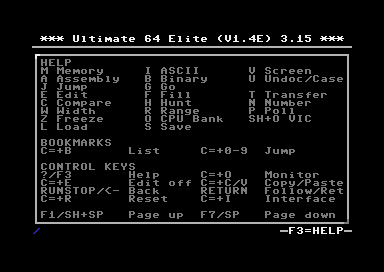
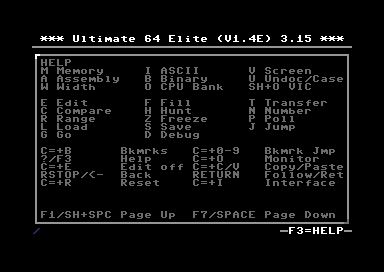
Document the machine code monitor debugger
Add a Debugger section with screenshots taken from an Ultimate 64, and refresh the help screenshot for the new help layout.

diff --git a/howto/machine_code_monitor.rst b/howto/machine_code_monitor.rst
@@ -3,7 +3,7 @@ Machine Code Monitor
 
 The Machine Code Monitor is a keyboard-driven tool for inspecting and editing live or frozen C64 memory.
 
-It supports hexadecimal, ASCII, screen-code, binary, and assembly views, plus inline editing, bulk memory operations, file load/save, and execution from a selected address.
+It supports hexadecimal, ASCII, screen-code, binary, and assembly views, plus inline editing, bulk memory operations, file load/save, execution from a selected address, and a debugger that steps the C64's own 6510 and stops it at breakpoints.
 
 Almost every command is a single keypress, and the monitor stays open until you exit it, so you can move freely between views and operations. If you forget a key, press ``F3`` for the on-screen help.
 
@@ -19,7 +19,9 @@ To open the monitor, use one of the following:
 -  Press ``C=+O``.
 -  Press ``F5``, open ``Developer``, then select ``Machine Code Monitor``.
 
-Open the built-in help with ``F3`` or ``?``. It lists every key binding:
+Open the built-in help with ``F3`` or ``?``. It lists every key binding, in three blocks: the views and what
+modifies them, the commands that act on memory, and the keys that need ``C=`` or a named key. ``F1``/``SH+SPACE``
+and ``F7``/``SPACE`` page it.
 
 .. image:: ../media/monitor/help_view.png
    :alt: Monitor built-in help screen listing key bindings
@@ -512,6 +514,216 @@ Matches are listed in a result picker:
 
 A command prompt accepts only characters that can occur in the command being entered; other keys are ignored. Parsing
 and validation still happen on ``Return``.
+
+Debugger
+--------
+
+Debug mode is layered on Assembly view. It stops the C64's own 6510, shows its registers, steps it one instruction at
+a time, and stops it again at breakpoints. The rest of the monitor keeps working while Debug is active, so memory can
+still be viewed and edited between steps.
+
+The machine has no hardware breakpoints. The debugger writes a temporary ``BRK`` at the addresses that may execute
+next, lets the CPU run, and puts the original bytes back when it stops. Everything it patched is restored when the
+session ends, including after a timeout or a reset.
+
+Entering and Leaving
+~~~~~~~~~~~~~~~~~~~~
+
+Press ``D`` outside Debug. The monitor switches to Assembly view and shows ``Dbg`` in the header.
+
+Entering Debug executes nothing and does not stop the C64. No CPU state is captured yet, so the footer is blank and
+the first execution command starts at the Assembly cursor address rather than where the C64 is currently executing.
+To attach to running code, set a breakpoint and press ``G``.
+
+============================= ==================================================================
+Key                           Effect
+============================= ==================================================================
+``C=+D``                      Leave Debug, stay in the monitor
+``RUN/STOP`` or ``ESC``       Leave Debug, stay in the monitor
+``X`` or ``C=+O``             Leave Debug and close the monitor
+``C=+R``                      Reset the machine; Debug is re-entered with no captured state
+============================= ==================================================================
+
+Debug works in UI Freeze, UI Overlay, and Telnet mode. Only one session can be active at a time across all of them.
+Where another one already owns the debugger, ``D`` reports ``DEBUG IN USE``; an owner that has not been seen for
+three seconds is taken over.
+
+Reading the CPU State
+~~~~~~~~~~~~~~~~~~~~~
+
+Debug reserves the two rows above the normal footer for the CPU state:
+
+.. image:: ../media/monitor/debug_paused.png
+   :alt: Assembly view in Debug mode, stopped on a JSR, with the CPU state footer
+
+============ =========================================================
+Field        Meaning
+============ =========================================================
+``PC``       Program counter
+``AC``       Accumulator
+``XR``       X register
+``YR``       Y register
+``SP``       Stack pointer
+``NV-BDIZC`` Status register, one digit per flag
+``IRQ``      RAM IRQ vector at ``$0314/$0315``
+``NMI``      RAM NMI vector at ``$0318/$0319``
+============ =========================================================
+
+The instruction that runs next is bracketed in the body, for example ``>JSR $C020<``, so the cursor can move
+elsewhere without losing it. A ``JSR``, an absolute ``JMP``, and a branch that will be taken show their target in the
+accent colour; an ``RTS`` row shows the return address read from the live stack. A value the debugger does not know
+is left blank rather than shown as zero, and the columns keep their positions.
+
+After each step the cursor follows the new program counter and the view is scrolled so it stays visible.
+
+Execution Commands
+~~~~~~~~~~~~~~~~~~
+
+============= =============== ================================================================================
+Key           Command         Behaviour
+============= =============== ================================================================================
+``D``         Step Over       Executes one instruction. A ``JSR`` runs to completion and stops at the return site
+``T``         Step Into       Executes one instruction. A ``JSR`` stops on the first instruction of the callee
+``U``         Step Out        Runs to the caller of the subroutine the CPU is in
+``G``         Go              Resumes the program and stops at the first enabled breakpoint hit
+``K``         Run to cursor   Runs until the Assembly cursor address is reached
+``Return``    Follow/Return   Follows a jump target, or returns from one, without executing anything
+============= =============== ================================================================================
+
+Inside Debug, ``U`` is Step Out rather than the undocumented-opcode toggle, and ``P`` is a breakpoint rather than
+Poll. Every key Debug does not own keeps working, so views, bookmarks, and editing stay available.
+
+``G`` with no enabled breakpoint hands the CPU back to full-speed execution. The on-screen monitor closes as it does
+so; a Telnet session stays open on the running machine.
+
+``G`` pressed while stopped on a breakpoint steps past that breakpoint first, so the same one does not fire again
+immediately.
+
+A run that reaches no breakpoint gives up after five seconds and reports ``DEBUG TIMEOUT``. While a run is in
+progress, ``RUN/STOP``, ``ESC``, ``C=+D``, or ``C=+O`` abandons it with ``DEBUG CANCELLED``.
+
+Step Out works after a Step Into and also after arriving inside a subroutine with ``G`` or ``K``. Where no active
+call frame can be established it reports ``NOT IN SUBROUTINE``; set a breakpoint at the ``RTS`` target shown on the
+row and use ``G`` instead.
+
+Breakpoints
+~~~~~~~~~~~
+
+There are 10 breakpoint slots, numbered ``0`` to ``9``.
+
+-  ``P`` toggles a breakpoint at the Assembly cursor address, in the memory source selected with ``O``. With all ten
+   slots in use it reports ``NO FREE BRK SLOT``.
+-  A breakpoint is an address plus a memory source, so ``$E000 KRN`` and ``$E000 RAM`` are separate breakpoints.
+-  A row with a breakpoint shows ``[BRK0]``..\ ``[BRK9]`` before its source tag, for example ``[BRK0][BAS]``. A slot
+   with a label shows the label instead, for example ``[LOOP][BAS]``.
+-  Only enabled breakpoints stop execution. A disabled slot is remembered but inert.
+-  Slots are held in volatile RAM. They survive ``C=+R``, leaving Debug, and closing the monitor. Powering the device
+   off clears them.
+
+``C=+P`` opens the breakpoint list:
+
+.. image:: ../media/monitor/debug_breakpoints.png
+   :alt: Monitor breakpoint list with two slots set
+
+===================== ==================================================
+Key                   Action
+===================== ==================================================
+``Up``/``Down``       Select a slot
+``Return``            Jump to the selected slot
+``0``..\ ``9``        Jump directly to that slot
+``S``                 Store the current address into the selected slot
+``L``                 Change the label, up to 4 characters
+``E``                 Enable or disable the slot
+``DEL``               Clear the slot
+``RUN/STOP``          Close the popup
+===================== ==================================================
+
+Jumping to a slot also restores the CPU view bank the breakpoint was set in.
+
+Two address ranges cannot hold a breakpoint or a step landing site, and using them is refused with ``PATCH FAILED``:
+``$0314``-``$0319`` holds the vectors the debugger redirects, and ``$035D``-``$03FB`` holds its handler and register
+store. Data kept from ``$0340`` upwards does not survive a debugging session.
+
+A breakpoint can be valid but invisible to the running program. Setting one in a source the live banking does not map
+reports ``BRK <target>, CPU <current>; not mapped now``: the breakpoint only fires once the program banks
+``<target>`` in.
+
+Where the Debugger Can Stop
+~~~~~~~~~~~~~~~~~~~~~~~~~~~
+
+Every step lands on the architecturally correct next instruction, with the registers, flags, stack pointer, and
+memory effects an undebugged run would have produced. What is available depends on where the program counter is, and
+on whether the debugger already holds a captured CPU state.
+
+======================================== ============================================ =========================
+Program counter is in                    Without a captured CPU state                 With a captured CPU state
+======================================== ============================================ =========================
+Plain RAM, or I/O space                  All commands                                 All commands
+RAM under a ROM window                   Step Over only                               All commands
+Visible BASIC, KERNAL, or character ROM  Step Over of a ``JSR`` only                  All commands
+======================================== ============================================ =========================
+
+To capture a CPU state, set a breakpoint and press ``G``, or Step Over a ``JSR``. From then on every command works in
+every region. Where a command is refused, the status row says ``run to a breakpoint 1st``.
+
+Messages
+~~~~~~~~
+
+============================================== ==============================================================================
+Message                                        Meaning
+============================================== ==============================================================================
+``Step Into: run to a breakpoint 1st``         No CPU state is captured yet. Set a breakpoint and press ``G``
+``UNSAFE TARGET``                              The instruction at the program counter is a ``BRK``
+``UNSUPPORTED OPCODE``                         The instruction to step is an undocumented opcode
+``NOT IN SUBROUTINE``                          Step Out found no active call frame
+``NO FREE BRK SLOT``                           All ten breakpoint slots are in use
+``PATCH FAILED``                               The address falls in a range the debugger reserves
+``DEBUG TIMEOUT``                              No breakpoint was reached within the run budget
+``DEBUG CANCELLED``                            A run was abandoned from the keyboard
+``DEBUG NOT SUPPORTED``                        The hardware cannot do this, for example a ROM breakpoint on a cartridge
+``DEBUG IN USE``                               Another front end owns the debugger
+============================================== ==============================================================================
+
+Debug Help
+~~~~~~~~~~
+
+``F3`` or ``?`` shows the Debug help screen while Debug is active. It uses the same three blocks as the ordinary
+help: the Debug commands first, then the monitor commands that still work while debugging, then the keys that need
+``C=`` or a named key. Keys Debug takes over are shown with their Debug meaning, so ``P`` reads as a breakpoint
+rather than Poll.
+
+.. image:: ../media/monitor/debug_help.png
+   :alt: Debug mode help screen
+
+Leaving Debug and Interrupts
+~~~~~~~~~~~~~~~~~~~~~~~~~~~~
+
+Leaving Debug hands the CPU back to a live runtime, with everything the debugger patched restored. Interrupt state on
+resume follows the banking of the resumed program: a program running with KERNAL mapped resumes with interrupts
+enabled, so the jiffy clock, cursor, and keyboard stay alive, while a program running with KERNAL banked out resumes
+with interrupts left masked, because there is no KERNAL handler for them.
+
+To keep a deliberately disabled-interrupt state, such as a raster effect between ``SEI`` and ``CLI``, set a
+breakpoint past the critical section and use ``G`` rather than leaving Debug inside it.
+
+Hardware Support and Limits
+~~~~~~~~~~~~~~~~~~~~~~~~~~~
+
+============================================= ================================= =============================================
+Capability                                    Ultimate 64                       Ultimate-II / II+ cartridge
+============================================= ================================= =============================================
+Breakpoints and stepping in C64 RAM           Yes                               Yes, where the code is in writable RAM
+Breakpoints in BASIC, KERNAL, character ROM   Yes, volatile ROM-image patch     Not available, C64 ROM is read-only
+Per-row memory source tag                     Yes                               Not available, rows are tagged ``[CPU]``
+CPU bank selection with ``O``                 Yes                               Not available
+============================================= ================================= =============================================
+
+Further limits:
+
+-  Conditional breakpoints, watchpoints, and execution history are not supported.
+-  Execution stops between instructions only.
+-  On the cartridge, a step is launched by pulsing the cartridge NMI line. A C64 Ultimate host does not forward that
+   line to its internal 6510, so a cartridge plugged into one does not step; in a real C64 it does.
 
 File I/O
 --------
